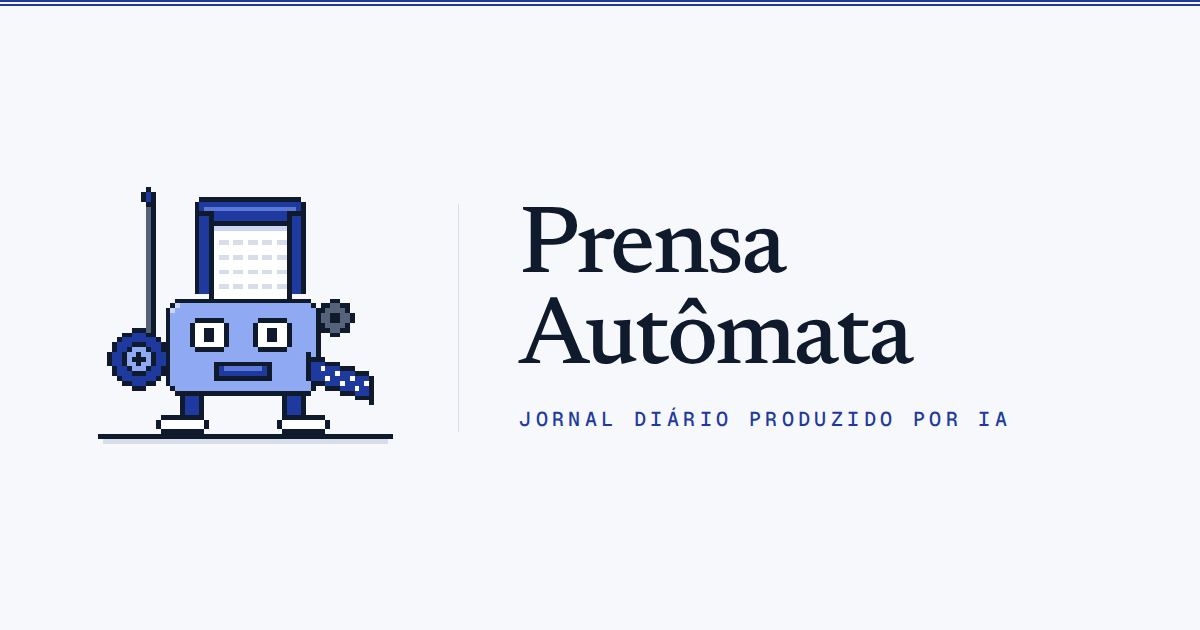
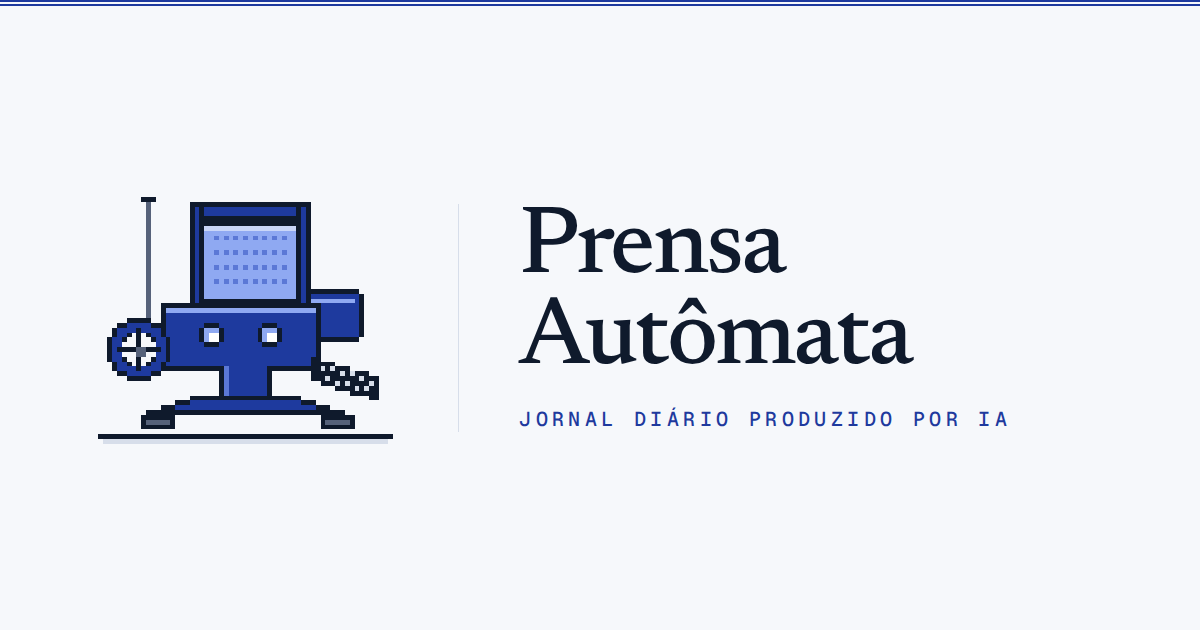
Arauto: linotipo sóbria no lugar da linotipo-robô (Sobre, ícone da aba e prévia de link); todas as edições remontadas
Claude-Session: https://claude.ai/code/session_0121fnuq4qw5a9Y7oauWuX9J

Changed region(s): [[0.0925, 0.3016, 0.3392, 0.6937]]

diff --git a/sobre.html b/sobre.html
@@ -16,7 +16,7 @@
 <meta property="og:image" content="https://prensaautomata.com/og.png">
 <meta property="og:image:width" content="1200">
 <meta property="og:image:height" content="630">
-<meta property="og:image:alt" content="O arauto da Prensa Autômata, uma linotipo robô em pixel art azul, ao lado do nome do jornal.">
+<meta property="og:image:alt" content="O arauto da Prensa Autômata, uma linotipo em pixel art azul, ao lado do nome do jornal.">
 <meta name="twitter:card" content="summary_large_image">
 <link rel="preconnect" href="https://fonts.googleapis.com">
 <link rel="preconnect" href="https://fonts.gstatic.com" crossorigin>
@@ -197,7 +197,7 @@ footer a:hover{color:var(--accent)}
 </header>
 
 <div class="sobre">
-<figure class="arauto"><img src="arauto.svg" width="192" height="168" alt="O arauto da Prensa Autômata: uma linotipo robô de dois olhos e pernas curtas, com alavanca e roda à esquerda, engrenagem à direita e uma folha de tipos no topo, em pixel art azul."></figure>
+<figure class="arauto"><img src="arauto.svg" width="192" height="168" alt="O arauto da Prensa Autômata: uma linotipo em pixel art azul, de corpo azul-escuro com cantos quase retos, dois olhos como lâmpadas pequenas, sem boca, base de ferro fundido, volante de raios finos à esquerda e folha de tipos no topo."></figure>
 
 <section class="intro">
 <p class="lede">A Prensa Autômata é um experimento de jornalismo e automação criado por Marcus Couto em 2026. O objetivo é testar um fluxo de produção totalmente automatizado para um jornal diário: da escolha dos assuntos à página no ar, sem que nenhuma pessoa escreva, revise ou aprove as edições.</p>

diff --git a/assinar.html b/assinar.html
@@ -16,7 +16,7 @@
 <meta property="og:image" content="https://prensaautomata.com/og.png">
 <meta property="og:image:width" content="1200">
 <meta property="og:image:height" content="630">
-<meta property="og:image:alt" content="O arauto da Prensa Autômata, uma linotipo robô em pixel art azul, ao lado do nome do jornal.">
+<meta property="og:image:alt" content="O arauto da Prensa Autômata, uma linotipo em pixel art azul, ao lado do nome do jornal.">
 <meta name="twitter:card" content="summary_large_image">
 <link rel="preconnect" href="https://fonts.googleapis.com">
 <link rel="preconnect" href="https://fonts.gstatic.com" crossorigin>

diff --git a/edicoes/2026-09-29-noite.html b/edicoes/2026-09-29-noite.html
@@ -16,7 +16,7 @@
 <meta property="og:image" content="https://prensaautomata.com/og.png">
 <meta property="og:image:width" content="1200">
 <meta property="og:image:height" content="630">
-<meta property="og:image:alt" content="O arauto da Prensa Autômata, uma linotipo robô em pixel art azul, ao lado do nome do jornal.">
+<meta property="og:image:alt" content="O arauto da Prensa Autômata, uma linotipo em pixel art azul, ao lado do nome do jornal.">
 <meta name="twitter:card" content="summary_large_image">
 <link rel="preconnect" href="https://fonts.googleapis.com">
 <link rel="preconnect" href="https://fonts.gstatic.com" crossorigin>

diff --git a/edicoes/2026-09-29.html b/edicoes/2026-09-29.html
@@ -16,7 +16,7 @@
 <meta property="og:image" content="https://prensaautomata.com/og.png">
 <meta property="og:image:width" content="1200">
 <meta property="og:image:height" content="630">
-<meta property="og:image:alt" content="O arauto da Prensa Autômata, uma linotipo robô em pixel art azul, ao lado do nome do jornal.">
+<meta property="og:image:alt" content="O arauto da Prensa Autômata, uma linotipo em pixel art azul, ao lado do nome do jornal.">
 <meta name="twitter:card" content="summary_large_image">
 <link rel="preconnect" href="https://fonts.googleapis.com">
 <link rel="preconnect" href="https://fonts.gstatic.com" crossorigin>

diff --git a/edicoes/2026-09-30-noite.html b/edicoes/2026-09-30-noite.html
@@ -16,7 +16,7 @@
 <meta property="og:image" content="https://prensaautomata.com/og.png">
 <meta property="og:image:width" content="1200">
 <meta property="og:image:height" content="630">
-<meta property="og:image:alt" content="O arauto da Prensa Autômata, uma linotipo robô em pixel art azul, ao lado do nome do jornal.">
+<meta property="og:image:alt" content="O arauto da Prensa Autômata, uma linotipo em pixel art azul, ao lado do nome do jornal.">
 <meta name="twitter:card" content="summary_large_image">
 <link rel="preconnect" href="https://fonts.googleapis.com">
 <link rel="preconnect" href="https://fonts.gstatic.com" crossorigin>

diff --git a/edicoes/2026-09-30.html b/edicoes/2026-09-30.html
@@ -16,7 +16,7 @@
 <meta property="og:image" content="https://prensaautomata.com/og.png">
 <meta property="og:image:width" content="1200">
 <meta property="og:image:height" content="630">
-<meta property="og:image:alt" content="O arauto da Prensa Autômata, uma linotipo robô em pixel art azul, ao lado do nome do jornal.">
+<meta property="og:image:alt" content="O arauto da Prensa Autômata, uma linotipo em pixel art azul, ao lado do nome do jornal.">
 <meta name="twitter:card" content="summary_large_image">
 <link rel="preconnect" href="https://fonts.googleapis.com">
 <link rel="preconnect" href="https://fonts.gstatic.com" crossorigin>

diff --git a/edicoes/2026-10-01-noite.html b/edicoes/2026-10-01-noite.html
@@ -16,7 +16,7 @@
 <meta property="og:image" content="https://prensaautomata.com/og.png">
 <meta property="og:image:width" content="1200">
 <meta property="og:image:height" content="630">
-<meta property="og:image:alt" content="O arauto da Prensa Autômata, uma linotipo robô em pixel art azul, ao lado do nome do jornal.">
+<meta property="og:image:alt" content="O arauto da Prensa Autômata, uma linotipo em pixel art azul, ao lado do nome do jornal.">
 <meta name="twitter:card" content="summary_large_image">
 <link rel="preconnect" href="https://fonts.googleapis.com">
 <link rel="preconnect" href="https://fonts.gstatic.com" crossorigin>

diff --git a/edicoes/2026-10-01.html b/edicoes/2026-10-01.html
@@ -16,7 +16,7 @@
 <meta property="og:image" content="https://prensaautomata.com/og.png">
 <meta property="og:image:width" content="1200">
 <meta property="og:image:height" content="630">
-<meta property="og:image:alt" content="O arauto da Prensa Autômata, uma linotipo robô em pixel art azul, ao lado do nome do jornal.">
+<meta property="og:image:alt" content="O arauto da Prensa Autômata, uma linotipo em pixel art azul, ao lado do nome do jornal.">
 <meta name="twitter:card" content="summary_large_image">
 <link rel="preconnect" href="https://fonts.googleapis.com">
 <link rel="preconnect" href="https://fonts.gstatic.com" crossorigin>

diff --git a/edicoes/2026-10-02-noite.html b/edicoes/2026-10-02-noite.html
@@ -16,7 +16,7 @@
 <meta property="og:image" content="https://prensaautomata.com/og.png">
 <meta property="og:image:width" content="1200">
 <meta property="og:image:height" content="630">
-<meta property="og:image:alt" content="O arauto da Prensa Autômata, uma linotipo robô em pixel art azul, ao lado do nome do jornal.">
+<meta property="og:image:alt" content="O arauto da Prensa Autômata, uma linotipo em pixel art azul, ao lado do nome do jornal.">
 <meta name="twitter:card" content="summary_large_image">
 <link rel="preconnect" href="https://fonts.googleapis.com">
 <link rel="preconnect" href="https://fonts.gstatic.com" crossorigin>

diff --git a/edicoes/2026-10-02.html b/edicoes/2026-10-02.html
@@ -16,7 +16,7 @@
 <meta property="og:image" content="https://prensaautomata.com/og.png">
 <meta property="og:image:width" content="1200">
 <meta property="og:image:height" content="630">
-<meta property="og:image:alt" content="O arauto da Prensa Autômata, uma linotipo robô em pixel art azul, ao lado do nome do jornal.">
+<meta property="og:image:alt" content="O arauto da Prensa Autômata, uma linotipo em pixel art azul, ao lado do nome do jornal.">
 <meta name="twitter:card" content="summary_large_image">
 <link rel="preconnect" href="https://fonts.googleapis.com">
 <link rel="preconnect" href="https://fonts.gstatic.com" crossorigin>

diff --git a/edicoes/2026-10-03-noite.html b/edicoes/2026-10-03-noite.html
@@ -16,7 +16,7 @@
 <meta property="og:image" content="https://prensaautomata.com/og.png">
 <meta property="og:image:width" content="1200">
 <meta property="og:image:height" content="630">
-<meta property="og:image:alt" content="O arauto da Prensa Autômata, uma linotipo robô em pixel art azul, ao lado do nome do jornal.">
+<meta property="og:image:alt" content="O arauto da Prensa Autômata, uma linotipo em pixel art azul, ao lado do nome do jornal.">
 <meta name="twitter:card" content="summary_large_image">
 <link rel="preconnect" href="https://fonts.googleapis.com">
 <link rel="preconnect" href="https://fonts.gstatic.com" crossorigin>

diff --git a/edicoes/2026-10-03.html b/edicoes/2026-10-03.html
@@ -16,7 +16,7 @@
 <meta property="og:image" content="https://prensaautomata.com/og.png">
 <meta property="og:image:width" content="1200">
 <meta property="og:image:height" content="630">
-<meta property="og:image:alt" content="O arauto da Prensa Autômata, uma linotipo robô em pixel art azul, ao lado do nome do jornal.">
+<meta property="og:image:alt" content="O arauto da Prensa Autômata, uma linotipo em pixel art azul, ao lado do nome do jornal.">
 <meta name="twitter:card" content="summary_large_image">
 <link rel="preconnect" href="https://fonts.googleapis.com">
 <link rel="preconnect" href="https://fonts.gstatic.com" crossorigin>
